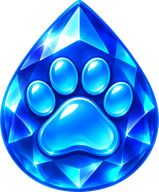
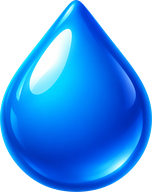
match3 0.6.4: volumetric toy-like tiles (heart, drop, leaf, star, flower, paw)
Claude-Session: https://claude.ai/code/session_01EPojqP1q7RdAiWJjo1AnAr

diff --git a/docs/games/match3/ART_PROMPTS.md b/docs/games/match3/ART_PROMPTS.md
@@ -64,3 +64,5 @@
 4. Жёлтая — звезда: `Single game tile icon, plump five-pointed star jelly candy with very rounded tips, warm sunflower yellow, soft glossy jelly candy material, smooth surface without facets, one soft highlight, gentle color gradient, medium saturation not neon, thick rounded chunky silhouette, slightly darker edge, no face, no patterns, no paw prints, no text, centered, plain solid white background, Stylized 3D cartoon render for a casual mobile puzzle game, 1:1`
 5. Фиолетовая — месяц: `Single game tile icon, plump crescent-moon-shaped jelly candy, soft lilac purple, soft glossy jelly candy material, smooth surface without facets, one soft highlight, gentle color gradient, medium saturation not neon, thick rounded chunky silhouette, slightly darker edge, no face, no patterns, no paw prints, no text, centered, plain solid white background, Stylized 3D cartoon render for a casual mobile puzzle game, 1:1`
 6. Оранжевая — подушечка: `Single game tile icon, plump rounded square cushion-shaped jelly candy, tangerine orange, soft glossy jelly candy material, smooth surface without facets, one soft highlight, gentle color gradient, medium saturation not neon, thick rounded chunky silhouette, slightly darker edge, no face, no patterns, no paw prints, no text, centered, plain solid white background, Stylized 3D cartoon render for a casual mobile puzzle game, 1:1`
+
+Пачка 5 встроена 2026-11-13 (0.6.4): объёмные «игрушечные» фишки — сердце, капля, листик, звезда, цветок, лапка (вместо кристаллов).
